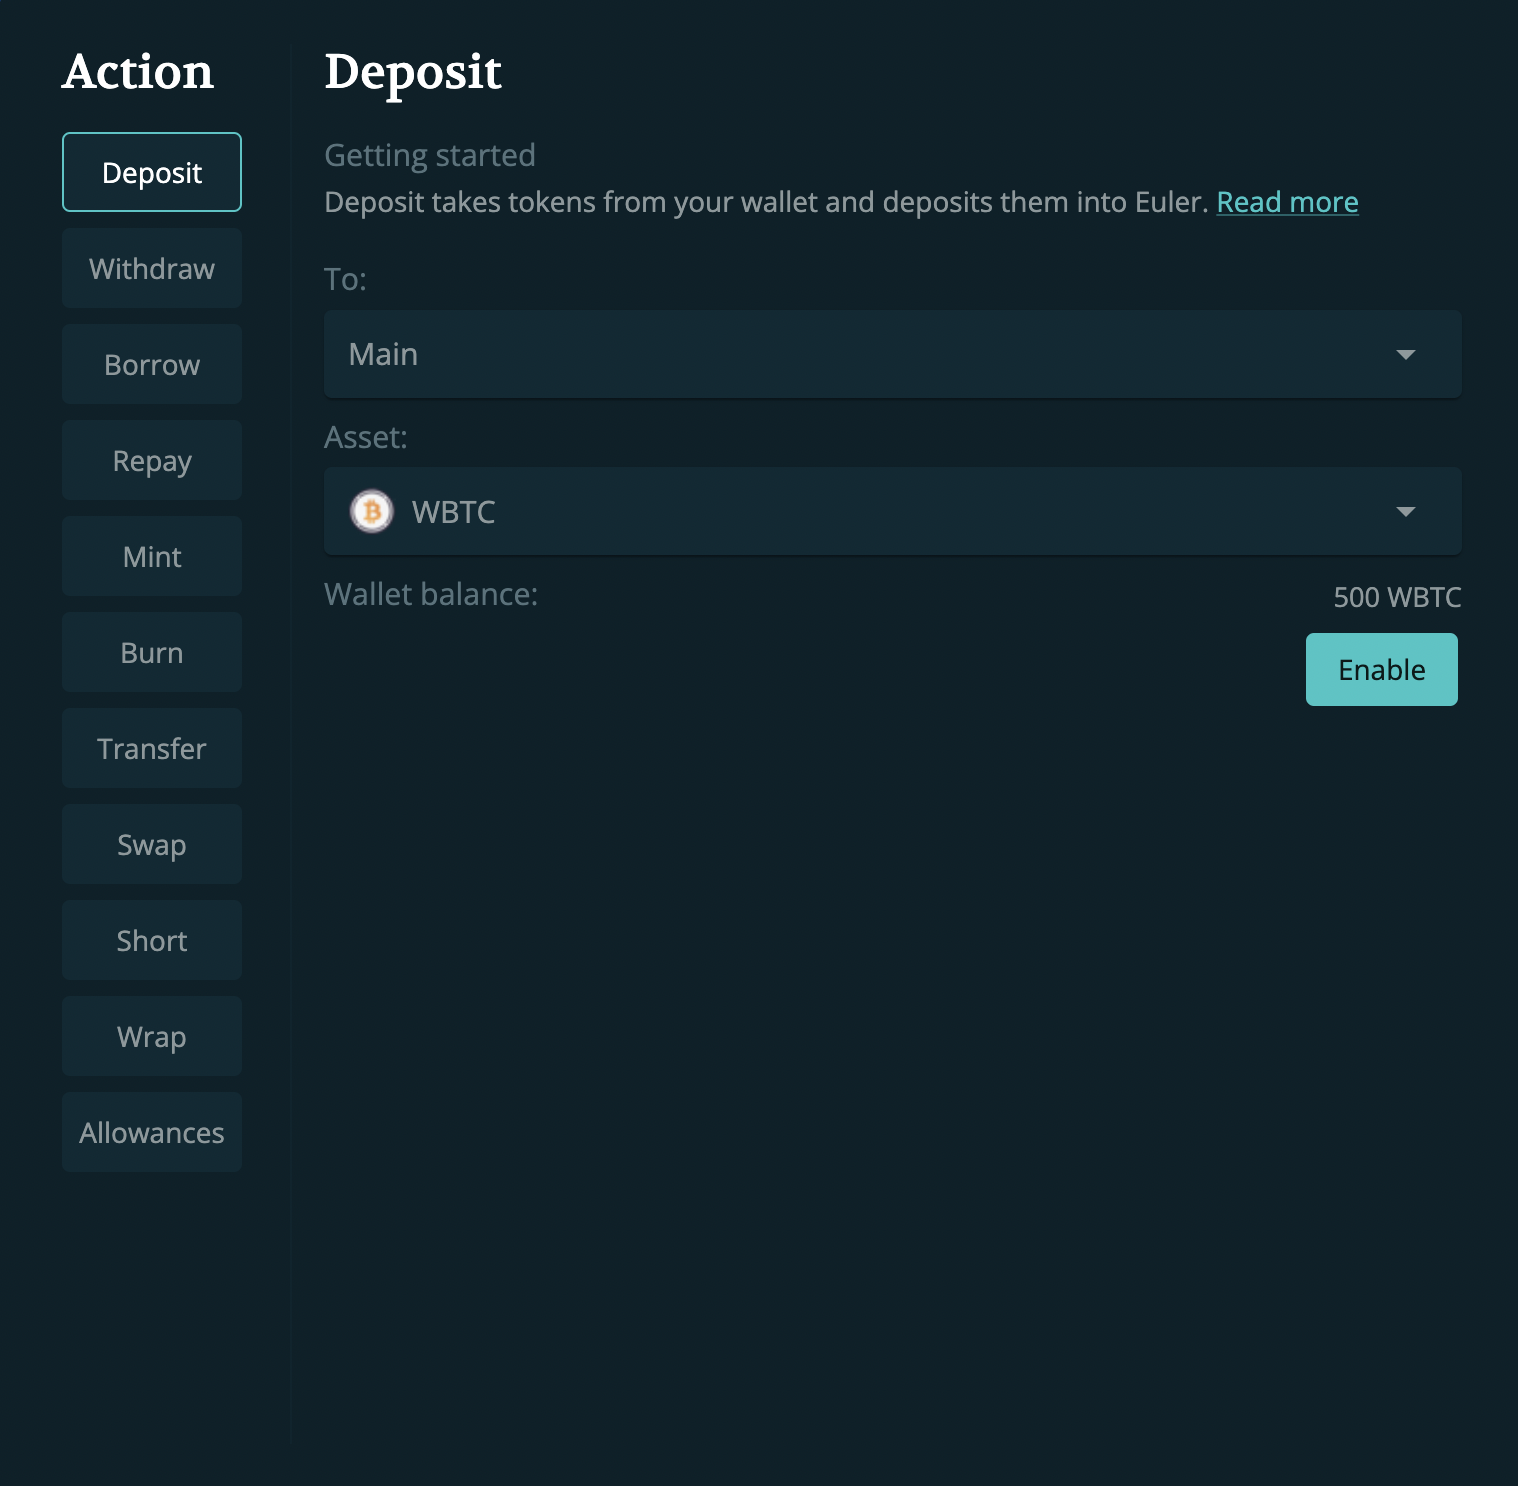
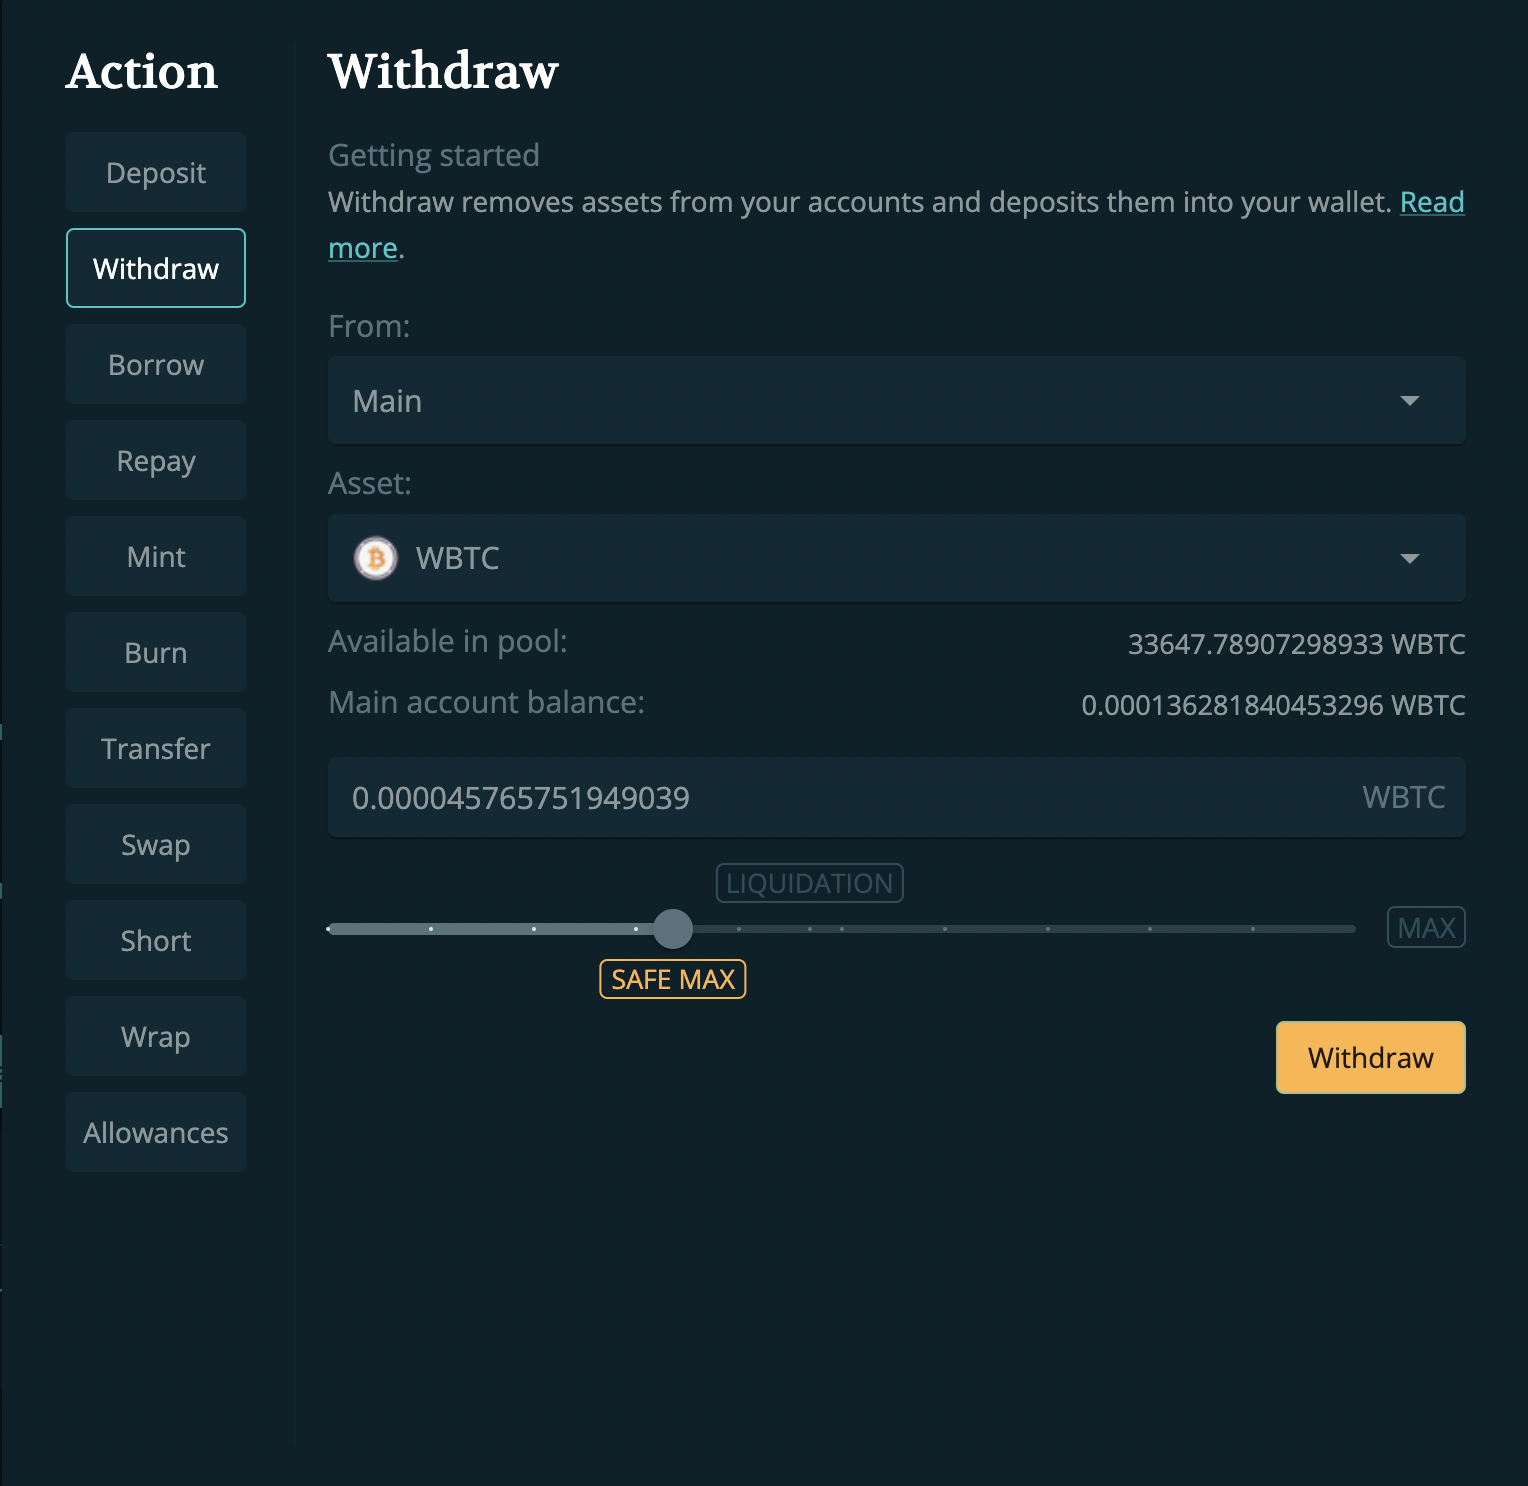
GitBook: [#12] No subject

diff --git a/app/i/ru-jin.md b/app/i/ru-jin.md
@@ -6,18 +6,20 @@ Eulerに入金することで、ユーザーは借り手に資産を供給し、
 
 ### Step-by-step
 
-<figure><img src="../../.gitbook/assets/image (1).png" alt=""><figcaption></figcaption></figure>
+<figure><img src="../../.gitbook/assets/image (1) (1).png" alt=""><figcaption></figcaption></figure>
 
 <figure><img src="../../.gitbook/assets/image.png" alt=""><figcaption></figcaption></figure>
 
-1. ナビゲーションバーにある`Quick Action`ボタンをクリックする。
-2. `Deposit` を選択
-3. 入金したいアカウントと資産を選択します。注：資産の使用をまだ承認していない場合は、`Enable` する必要があります。場合によって`Sign Permit` で、一種のガスレス承認（無料）で行うことができます。
-4. 資産を担保に融資を受けたい場合は、`Enter market`にチェックを入れてください。注：「Collateral」階層の資産に対してのみ借入が可能です。「Cross」または「Isolated」と表示された資産に対する借入はできません。これらのタイプの資産の市場に参入すると、清算時に清算人がこれらの資産を利用できるようになりますが、借入余力は増加しません。
-5. 入金したい金額を入力してください。（利用可能な残高をすべて送信する場合は`MAX`を押してください）
-6. `Deposit`をクリックします。次に、取引用のショッピングカートのようなものである`Transaction Builder`に移動します。ここから2つのオプションがあります。 \
-   1\. `Send txs`クリックすると、すぐに入金が行われます。\
-   2\. `Quick Action`ボタンに再度アクセスして、トランザクションを追加します。`Send txs`をクリックすると、一度にすべてを送信できます。このアプローチは、通常、複数の個別のトランザクションを送信するよりもガスを節約します。
+1. &#x20;画面上部にある`Quick Action`ボタンをクリックする。
+2. Actionバーの`Deposit` を選択。
+3. 入金したいアカウントと資産を選択します。
+   * 注：資産の使用をまだ承認していない場合は、`Enable` する必要があります。場合によって`Sign Permit` で、一種のgasless承認（無料）を行うことができます。
+4. 資産を担保に融資を受けたい場合は、`Enter market`にチェックを入れてください。
+   * 注：「Collateral」階層の資産に対してのみ借入が可能です。「Cross」または「Isolated」と表示された資産に対する借入はできません。これらのタイプの資産の市場に参入すると、清算時に清算人がこれらの資産を利用できるようになりますが、借入余力は増加しません。
+5. 入金したい金額を入力します。（利用可能な残高をすべて送信する場合は`MAX`を押してください）
+6. `Deposit`をクリックします。次に、取引用のショッピングカートのようなものである`Transaction Builder`に移動します。ここから2つのオプションがあります。&#x20;
+   1. `Send txs`クリックすると、すぐに入金が行われます。
+   2. `Quick Action`ボタンに再度アクセスして、トランザクションを追加します。`Send txs`をクリックすると、一度にすべてを送信できます。このアプローチは、通常、複数の個別のトランザクションを送信するよりもガスを節約します。
 
 ### FAQ
 

diff --git a/app/i/riru.md b/app/i/riru.md
@@ -1,0 +1,24 @@
+# 借りる
+
+### About
+
+Borrowing assets on Euler creates a loan that users can repay at any time. Borrowers pay the Borrow APY rate to lenders. Note that users must first deposit collateral before they can borrow. All loans are over-collateralised, which means that users must deposit more value into the protocol than they can borrow.
+
+### Step-by-step
+
+1. Select `Borrow` in the `Quick Action` menu.
+2. Select the Euler sub-account that you want to borrow on.
+   * Ensure that you have sufficient collateral deposited in the sub-account, and the asset is entered into the market.
+3. Select the asset you are interested in.
+4. Enter the amount you wish to borrow:
+   * The `Max` button is representative of Liquidation x 1.5 to give a better UI experience, but we do not recommend you borrow more than `Safe Max` (unless it is a self-collateralized loan).
+   * Select `Safe Max` to borrow enough such that your Euler sub-account will result in having a health score of 1.25 (not supported for self-collateralized loans).
+   * Select `Liquidation` to borrow enough such that your Euler sub-account will end up at a health score of 1 (right on the edge of a liquidation).
+
+### FAQ
+
+**I've deposited an asset, but cannot borrow.**\
+\*\*\*\*Make your transactions were completed successfully. You can only borrow using approved collateral-tier assets, unless you're borrowing the same asset you've deposited. Make sure your collateral is sufficient for the amount you're trying to borrow. Otherwise, please create a support ticket in [Discord](https://discord.gg/CdG97VSYGk).
+
+**How come I can't borrow with an isolated asset?**\
+\*\*\*\*Note that isolated and Cross assets cannot be used as collateral, but Cross assets can be borrowed alongside other assets, while Isolated assets cannot. Euler aims to curb risk by limiting collateral tier assets to certain tokens with lower risk profiles.

diff --git a/app/i/chu-jin.md b/app/i/chu-jin.md
@@ -1,0 +1,21 @@
+# 出金
+
+### About
+
+ユーザーはいつでもEulerから直接ウォレットに資産を引き出すことができます。引き出しの前に、ユーザーは意図した金額を引き出すために、負債が十分に返済されていることを確認する必要があります。
+
+### Step-by-step
+
+<figure><img src="../../.gitbook/assets/image (1).png" alt=""><figcaption></figcaption></figure>
+
+1. `Quick Action`で`Withdraw`を選択し、引き出したい資産とEulerアカウントを選択します。
+2. ご希望の資産を選びます。
+3. 引出し金額を入力する。
+   * `Max`を選択すると、残高の全額、またはプールの流動性が預けた金額より少ない場合に、プールが許可する最大額を引き出すことができます。
+   * `Safe Max`を選択すると、アカウントの健康状態が1.25になるように引き出すことができます。
+   * `Liquidation`を選択すると、あなたのアカウントの健康状態が1（清算寸前）になるような金額を引き出すことができます。
+
+### FAQ
+
+**資産を引き出すことができません。** \
+ローンをカバーするのに十分な資産があることを確認してください。[Discord](https://discord.gg/CdG97VSYGk).

diff --git a/SUMMARY.md b/SUMMARY.md
@@ -11,3 +11,5 @@
 * [使い方](app/i/README.md)
   * [ウォレットを接続する](app/i/worettowosuru.md)
   * [入金](app/i/ru-jin.md)
+  * [出金](app/i/chu-jin.md)
+  * [借りる](app/i/riru.md)
